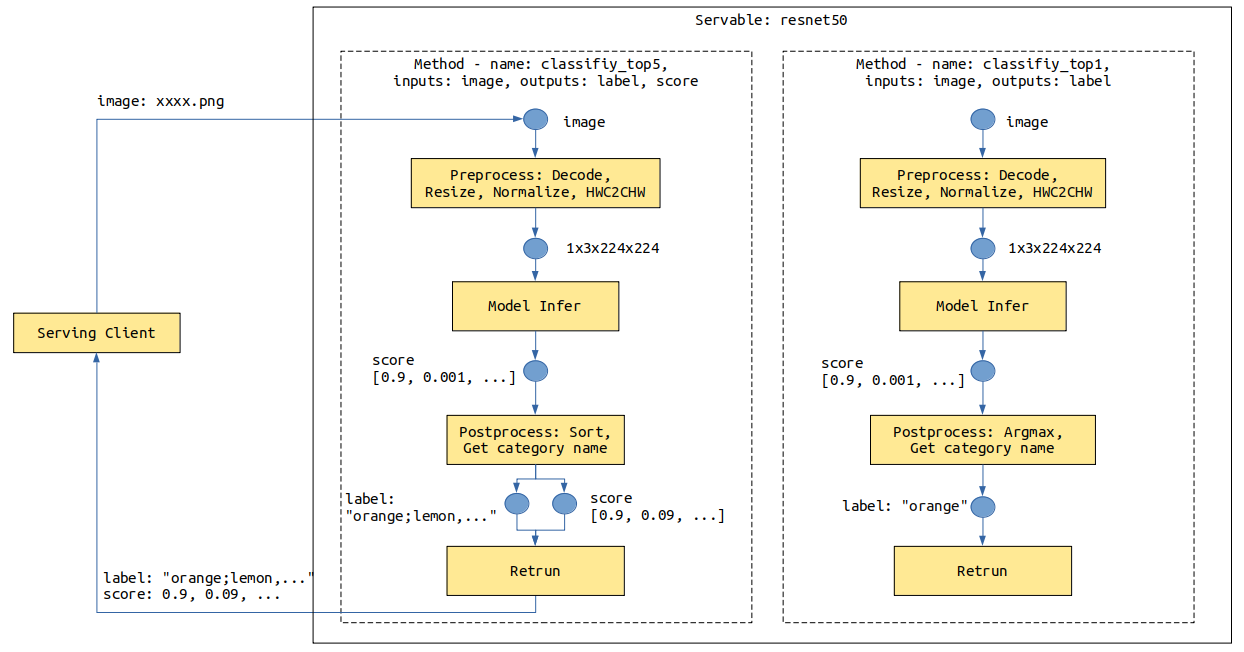
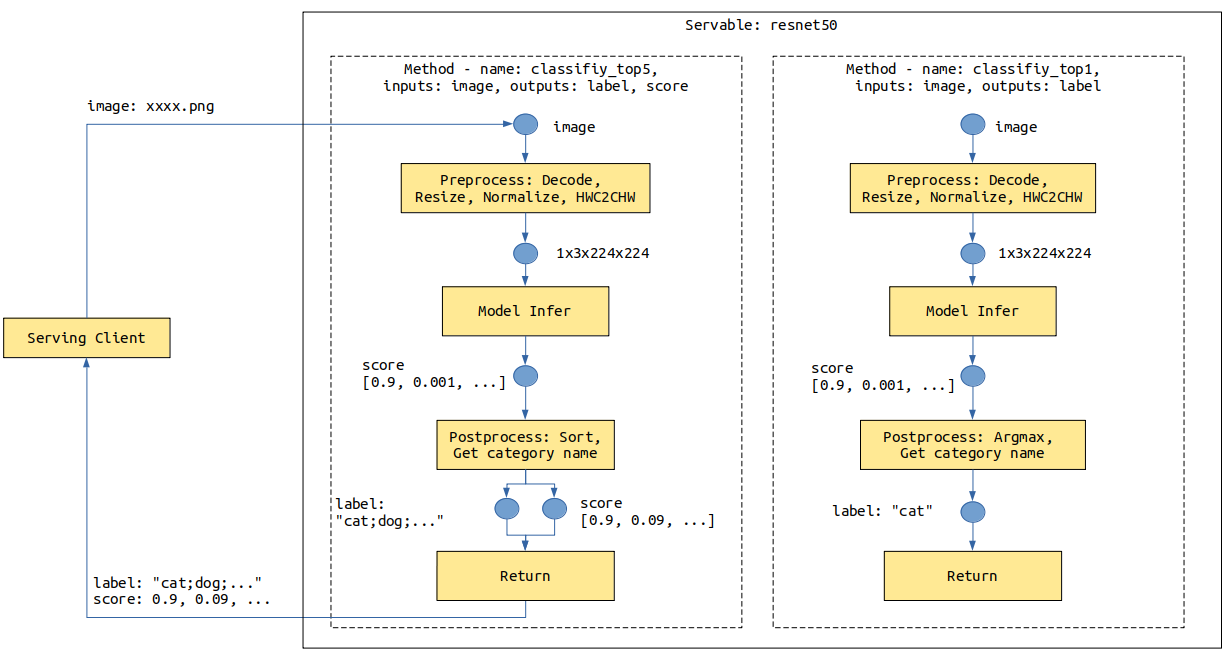
Serving, update example

Changed region(s): [[0.0, 0.0, 1.0, 1.0], [0.9601, 0.092, 0.991, 0.9509], [0.4955, 0.4601, 0.5265, 0.4908]]

diff --git a/tutorials/inference/source_en/serving_model.md b/tutorials/inference/source_en/serving_model.md
@@ -70,9 +70,9 @@ Take the ResNet-50 model as an example. The model configuration file directory i
 ```text
 resnet50
 ├── 1
-│   └── resnet_classify.mindir
+│   └── resnet50_1b_cifar10.mindir
 ├── 2
-│   └── resnet_classify.mindir
+│   └── resnet50_1b_cifar10.mindir
 └── servable_config.py
 ```
 
@@ -82,7 +82,7 @@ resnet50
 
 - `1` and `2`: directories, which indicate models of the `1` and `2` versions. The model version is a positive integer starting from `1`. A larger number indicates a later version.
 
-- `resnet_classify.mindir`: a model file. When the Servable is started, the model file of the corresponding version is loaded.
+- `resnet50_1b_cifar10.mindir`: a model file. When the Servable is started, the model file of the corresponding version is loaded.
 
 ### Preprocessing and Post-processing Definition
 
@@ -93,15 +93,20 @@ import mindspore.dataset as ds
 import mindspore.dataset.transforms.c_transforms as TC
 import mindspore.dataset.vision.c_transforms as VC
 
+# cifar 10
+idx_2_label = ['airplane', 'automobile', 'bird', 'cat', 'deer', 'dog', 'frog', 'horse', 'ship', 'truck']
+
+
 def preprocess_eager(image):
     """
     Define preprocess, input is image numpy, return preprocess result.
     Return type can be numpy, str, bytes, int, float, or bool.
-    Use MindData Eager, this image processing can also use other image processing library, likes numpy, PIL or cv2 etc.
+    Use MindData Eager, this image processing can also use other image processing library,
+    likes numpy, PIL or cv2 etc.
     """
     image_size = 224
-    mean = [0.485 * 255, 0.456 * 255, 0.406 * 255]
-    std = [0.229 * 255, 0.224 * 255, 0.225 * 255]
+    mean = [0.4914 * 255, 0.4822 * 255, 0.4465 * 255]
+    std = [0.2023 * 255, 0.1994 * 255, 0.2010 * 255]
 
     decode = VC.Decode()
     resize = VC.Resize([image_size, image_size])
@@ -126,7 +131,8 @@ def postprocess_top1(score):
 def postprocess_top5(score):
     """
     Define postprocess. This example has one input and two outputs.
-    The input is the numpy tensor of the score. The first output is the str joined by labels of top five, and the second output is the score tensor of the top five.
+    The input is the numpy tensor of the score. The first output is the str
+    joined by labels of top five, and the second output is the score tensor of the top five.
     """
     idx = np.argsort(score)[::-1][:5]  # top 5
     ret_label = [idx_2_label[i] for i in idx]
@@ -144,7 +150,7 @@ The sample code for declaring the `resnet50` Servable model is as follows:
 
 ```python
 from mindspore_serving.server import register
-register.declare_servable(servable_file="resnet50_1b_imagenet.mindir", model_format="MindIR", with_batch_dim=True)
+register.declare_servable(servable_file="resnet50_1b_cifar10.mindir", model_format="MindIR", with_batch_dim=True)
 ```
 
 The input parameter `servable_file` of `declare_servable` indicates the model file name. `model_format` indicates the model type. Currently, the Ascend 310 environment supports both `OM` and `MindIR` model types. The Ascend 910 environment supports only the `MindIR` model type.
@@ -222,24 +228,38 @@ The method definition cannot contain branch structures such as if, for, and whil
 When a user uses a service provided by a Servable method on the client, the user needs to specify the input value based on the input parameter name and identify the output value based on the output parameter name. For example, the method `classify_top5` accessed by the client is as follows:
 
 ```python
+import os
 from mindspore_serving.client import Client
 
 def read_images():
-    # read image file and return
+    """Read images for directory test_image"""
+    image_files = []
+    images_buffer = []
+    for path, _, file_list in os.walk("./test_image/"):
+        for file_name in file_list:
+            image_file = os.path.join(path, file_name)
+            image_files.append(image_file)
+    for image_file in image_files:
+        with open(image_file, "rb") as fp:
+            images_buffer.append(fp.read())
+    return image_files, images_buffer
 
 def run_classify_top5():
     """Client for servable resnet50 and method classify_top5"""
     client = Client("localhost:5500", "resnet50", "classify_top5")
     instances = []
-    for image in read_images():  # read multi image
+    image_files, images_buffer = read_images()
+    for image in images_buffer:
         instances.append({"image": image})  # input `image`
+
     result = client.infer(instances)
-    print(result)
-    for result_item in result:  # result for every image
+
+    for file, result_item in zip(image_files, result):  # result for every image
         label = result_item["label"]  # result `label`
         score = result_item["score"]  # result `score`
-        print("label result", label)
-        print("score result", score)
+        print("file:", file)
+        print("label result:", label)
+        print("score result:", score)
 
 if __name__ == '__main__':
     run_classify_top5()

diff --git a/tutorials/inference/source_zh_cn/serving_model.md b/tutorials/inference/source_zh_cn/serving_model.md
@@ -70,9 +70,9 @@ Servable包含如下内容：
 ```text
 resnet50
 ├── 1
-│   └── resnet_classify.mindir
+│   └── resnet50_1b_cifar10.mindir
 ├── 2
-│   └── resnet_classify.mindir
+│   └── resnet50_1b_cifar10.mindir
 └── servable_config.py
 ```
 
@@ -82,7 +82,7 @@ resnet50
 
 - 目录`1`和`2`表示版本`1`和版本`2`的模型，模型版本为正整数，从`1`开始，数字越大表示版本越新。
 
-- `resnet_classify.mindir`为模型文件，Servable启动会加载对应版本的模型文件。
+- `resnet50_1b_cifar10.mindir`为模型文件，Servable启动会加载对应版本的模型文件。
 
 ### 预处理和后处理定义
 
@@ -93,15 +93,20 @@ import mindspore.dataset as ds
 import mindspore.dataset.transforms.c_transforms as TC
 import mindspore.dataset.vision.c_transforms as VC
 
+# cifar 10
+idx_2_label = ['airplane', 'automobile', 'bird', 'cat', 'deer', 'dog', 'frog', 'horse', 'ship', 'truck']
+
+
 def preprocess_eager(image):
     """
     Define preprocess, input is image numpy, return preprocess result.
     Return type can be numpy, str, bytes, int, float, or bool.
-    Use MindData Eager, this image processing can also use other image processing library, likes numpy, PIL or cv2 etc.
+    Use MindData Eager, this image processing can also use other image processing library,
+    likes numpy, PIL or cv2 etc.
     """
     image_size = 224
-    mean = [0.485 * 255, 0.456 * 255, 0.406 * 255]
-    std = [0.229 * 255, 0.224 * 255, 0.225 * 255]
+    mean = [0.4914 * 255, 0.4822 * 255, 0.4465 * 255]
+    std = [0.2023 * 255, 0.1994 * 255, 0.2010 * 255]
 
     decode = VC.Decode()
     resize = VC.Resize([image_size, image_size])
@@ -113,6 +118,7 @@ def preprocess_eager(image):
     image = normalize(image)
     image = hwc2chw(image)
     return image
+
 
 def postprocess_top1(score):
     """
@@ -126,7 +132,8 @@ def postprocess_top1(score):
 def postprocess_top5(score):
     """
     Define postprocess. This example has one input and two outputs.
-    The input is the numpy tensor of the score. The first output is the str joined by labels of top five, and the second output is the score tensor of the top five.
+    The input is the numpy tensor of the score. The first output is the str
+    joined by labels of top five, and the second output is the score tensor of the top five.
     """
     idx = np.argsort(score)[::-1][:5]  # top 5
     ret_label = [idx_2_label[i] for i in idx]
@@ -144,7 +151,7 @@ def postprocess_top5(score):
 
 ```python
 from mindspore_serving.server import register
-register.declare_servable(servable_file="resnet50_1b_imagenet.mindir", model_format="MindIR", with_batch_dim=True)
+register.declare_servable(servable_file="resnet50_1b_cifar10.mindir", model_format="MindIR", with_batch_dim=True)
 ```
 
 其中`declare_servable`入参`servable_file`指示模型的文件名称；`model_format`指示模型的模型类别，当前Ascend310环境支持`OM`和`MindIR`两种模型类型，Ascend910环境仅支持`MindIR`模型类型。
@@ -222,24 +229,38 @@ def classify_top5(image):
 用户在客户端使用Servable某个方法提供的服务时，需要通过入参名称指定对应输入的值，通过出参名称识别各个输出的值。比如客户端访问方法`classify_top5`：
 
 ```python
+import os
 from mindspore_serving.client import Client
 
 def read_images():
-    # read image file and return
+    """Read images for directory test_image"""
+    image_files = []
+    images_buffer = []
+    for path, _, file_list in os.walk("./test_image/"):
+        for file_name in file_list:
+            image_file = os.path.join(path, file_name)
+            image_files.append(image_file)
+    for image_file in image_files:
+        with open(image_file, "rb") as fp:
+            images_buffer.append(fp.read())
+    return image_files, images_buffer
 
 def run_classify_top5():
     """Client for servable resnet50 and method classify_top5"""
     client = Client("localhost:5500", "resnet50", "classify_top5")
     instances = []
-    for image in read_images():  # read multi image
+    image_files, images_buffer = read_images()
+    for image in images_buffer:
         instances.append({"image": image})  # input `image`
+
     result = client.infer(instances)
-    print(result)
-    for result_item in result:  # result for every image
+
+    for file, result_item in zip(image_files, result):  # result for every image
         label = result_item["label"]  # result `label`
         score = result_item["score"]  # result `score`
-        print("label result", label)
-        print("score result", score)
+        print("file:", file)
+        print("label result:", label)
+        print("score result:", score)
 
 if __name__ == '__main__':
     run_classify_top5()

diff --git a/tutorials/inference/source_zh_cn/serving_grpc.md b/tutorials/inference/source_zh_cn/serving_grpc.md
@@ -375,6 +375,3 @@ openssl x509 -req -in client.csr -CA ca.crt -CAkey ca.key -CAcreateserial -out c
   客户端需要提供自己的证书给服务器验证，我们分别传入客户端的证书`client.crt`和私钥`client.key`。
 
 当gRPC服务器与客户端`SSL/TLS`开启状态不一致的时候，服务器或客户端会出现`ssl3_get_record:wrong version number`的错误，这时需要确认服务器与客户端是否都开启了`SSL/TLS`。
-
-
-
